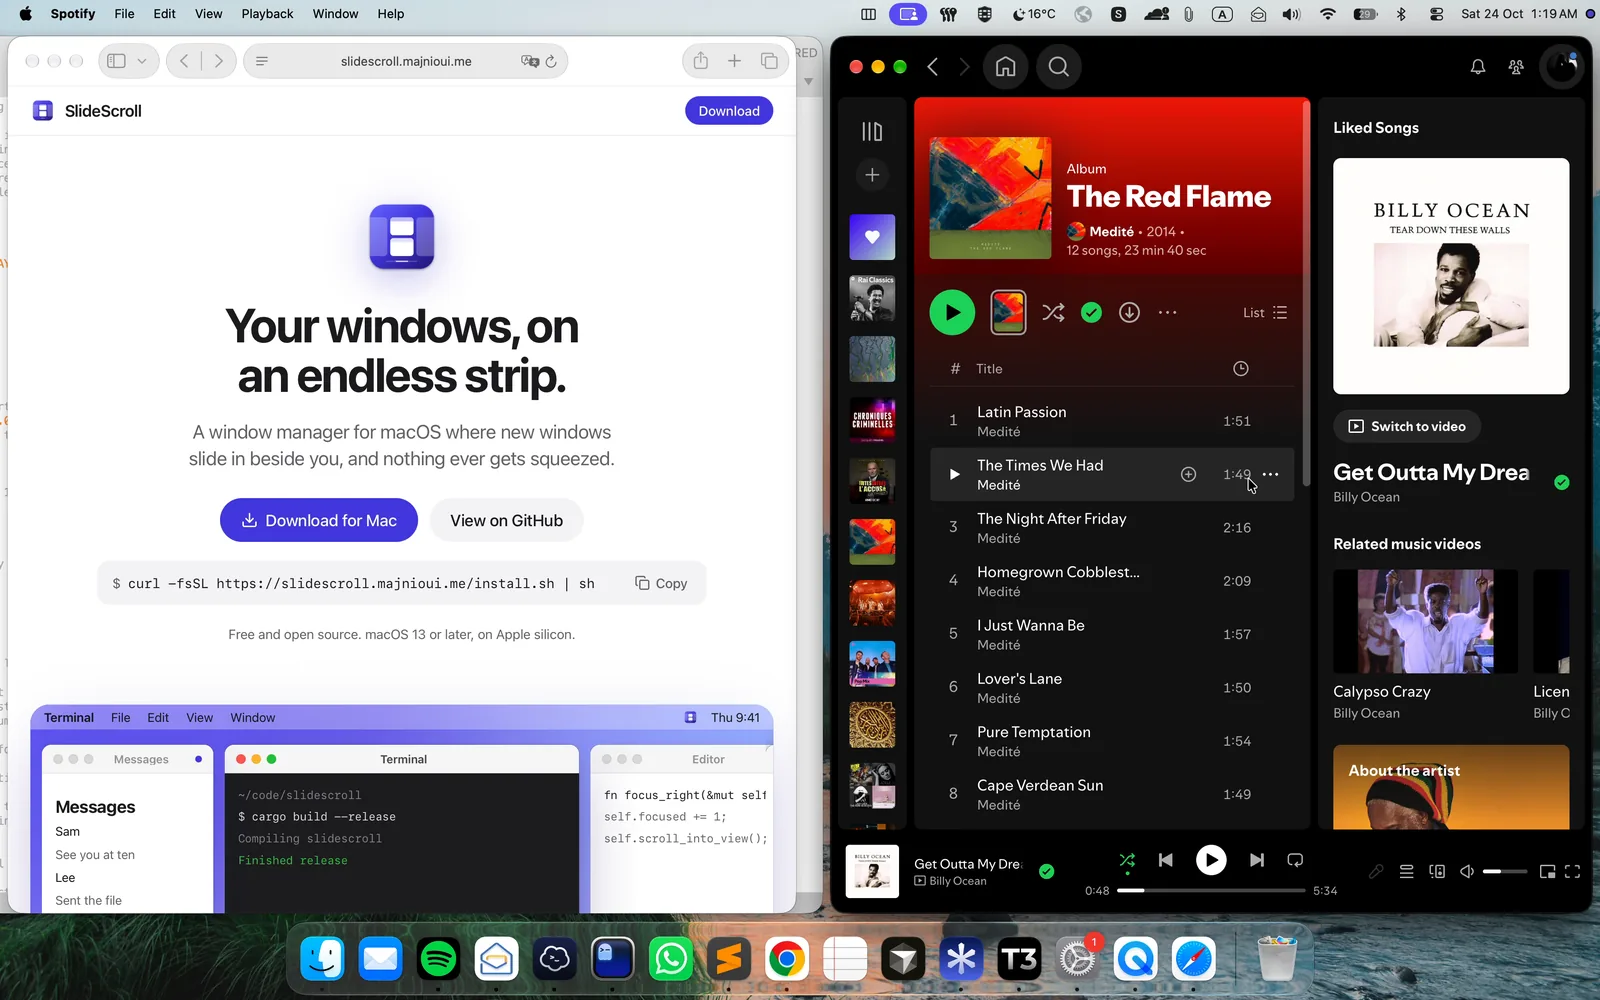
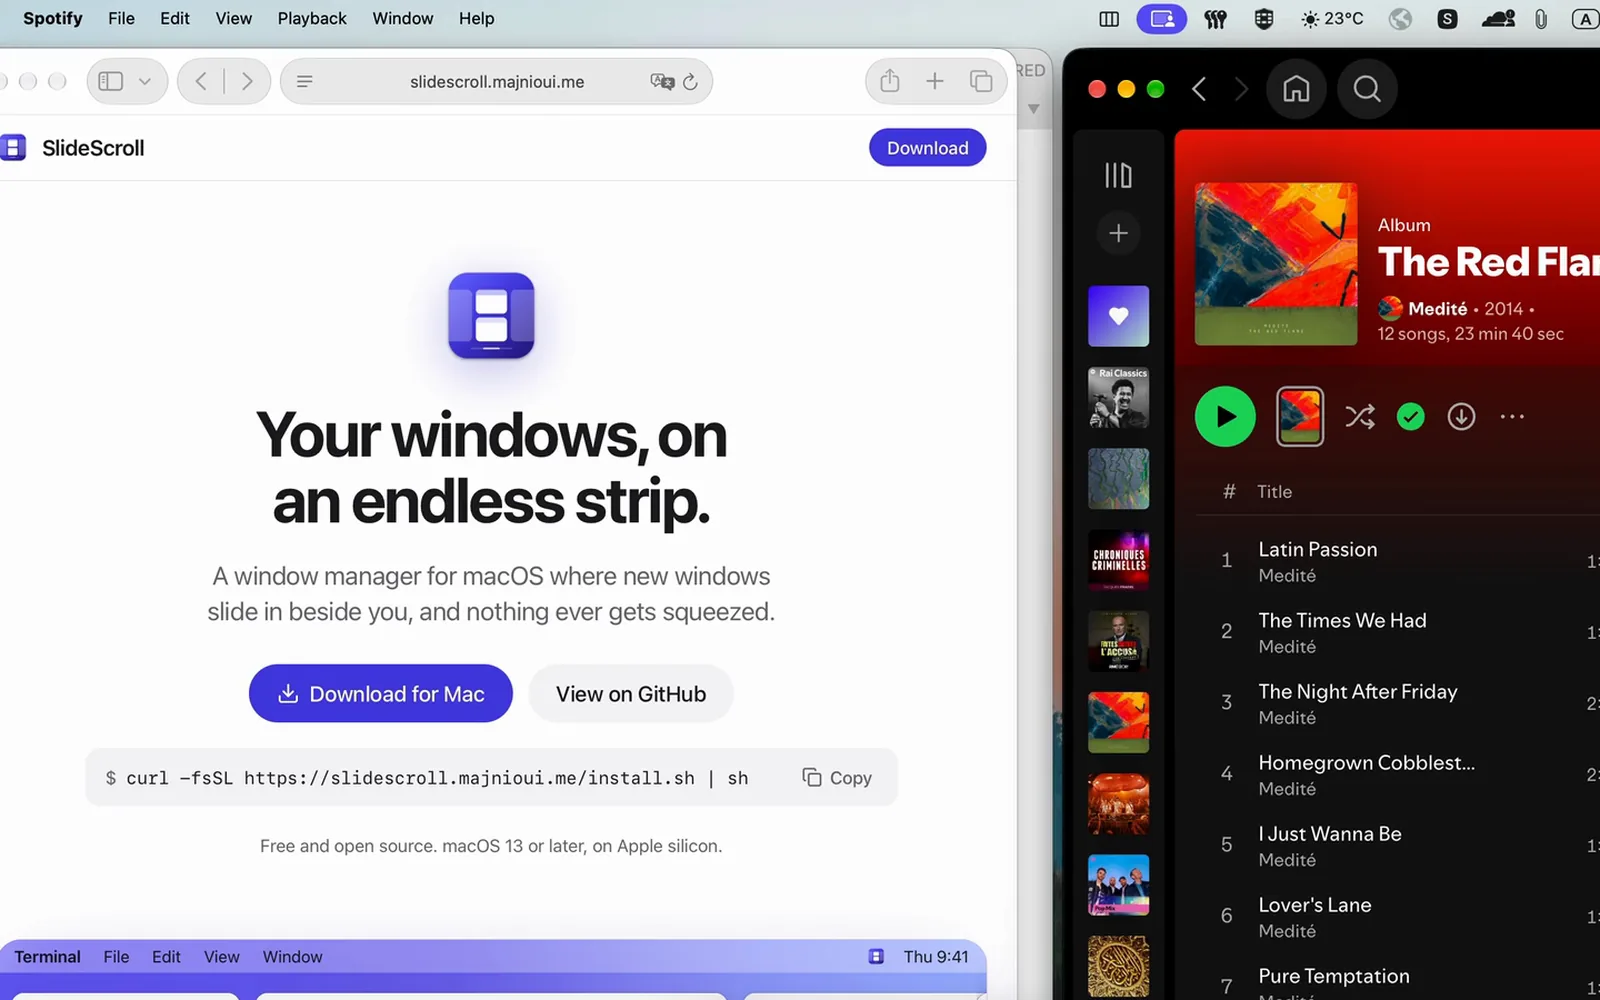
Show the new demo video in the README and on the site

diff --git a/site/index.html b/site/index.html
@@ -151,12 +151,12 @@
         <p class="lead">Safari, Ghostty, Sublime Text and Spotify on one strip, moved with the keyboard.</p>
       </div>
       <figure class="video__frame">
-        <a class="video__play" href="https://youtu.be/iG9rnbIasas" data-youtube="iG9rnbIasas" aria-label="Play the SlideScroll demo video">
-          <img src="assets/demo-video.webp" width="1600" height="1000" alt="" loading="lazy" decoding="async">
+        <a class="video__play" href="https://youtu.be/o-sgR5RTtwk" data-youtube="o-sgR5RTtwk" aria-label="Play the SlideScroll demo video">
+          <img src="assets/demo-video.webp?v=2" width="1600" height="1000" alt="" loading="lazy" decoding="async">
           <span class="video__icon" aria-hidden="true"></span>
         </a>
       </figure>
-      <p class="video__note">34 seconds. Plays from YouTube once you press play.</p>
+      <p class="video__note">40 seconds. Plays from YouTube once you press play.</p>
     </div>
   </section>
 

diff --git a/README.md b/README.md
@@ -22,9 +22,9 @@ Your windows live on an endless horizontal strip. Opening one never squeezes the
 
 <br>
 
-<a href="https://youtu.be/iG9rnbIasas"><img src="assets/demo-video.jpg" width="720" alt="SlideScroll demo video: Safari, Spotify and other windows on one strip, moved with the keyboard"></a>
+<a href="https://youtu.be/o-sgR5RTtwk"><img src="assets/demo-video.jpg" width="720" alt="SlideScroll demo video: Safari, Spotify, Sublime Text and Ghostty on one strip, moved with the keyboard"></a>
 
-<sub><a href="https://youtu.be/iG9rnbIasas">▶ Watch the demo on YouTube</a> (34 seconds)</sub>
+<sub><a href="https://youtu.be/o-sgR5RTtwk">▶ Watch the demo on YouTube</a> (40 seconds)</sub>
 
 </div>
 
